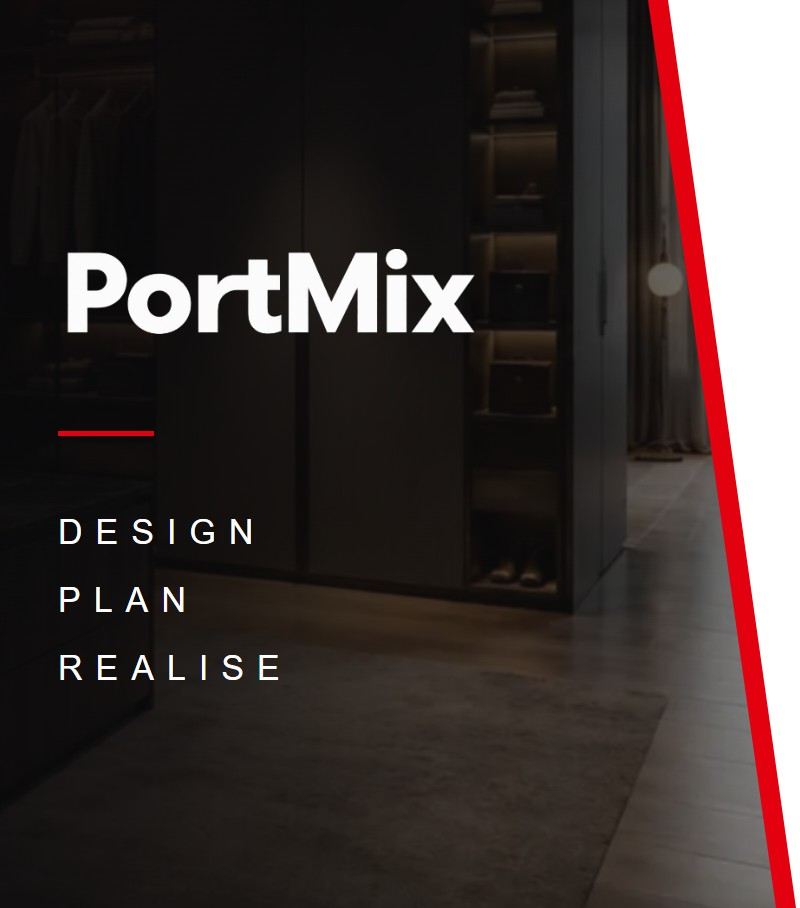
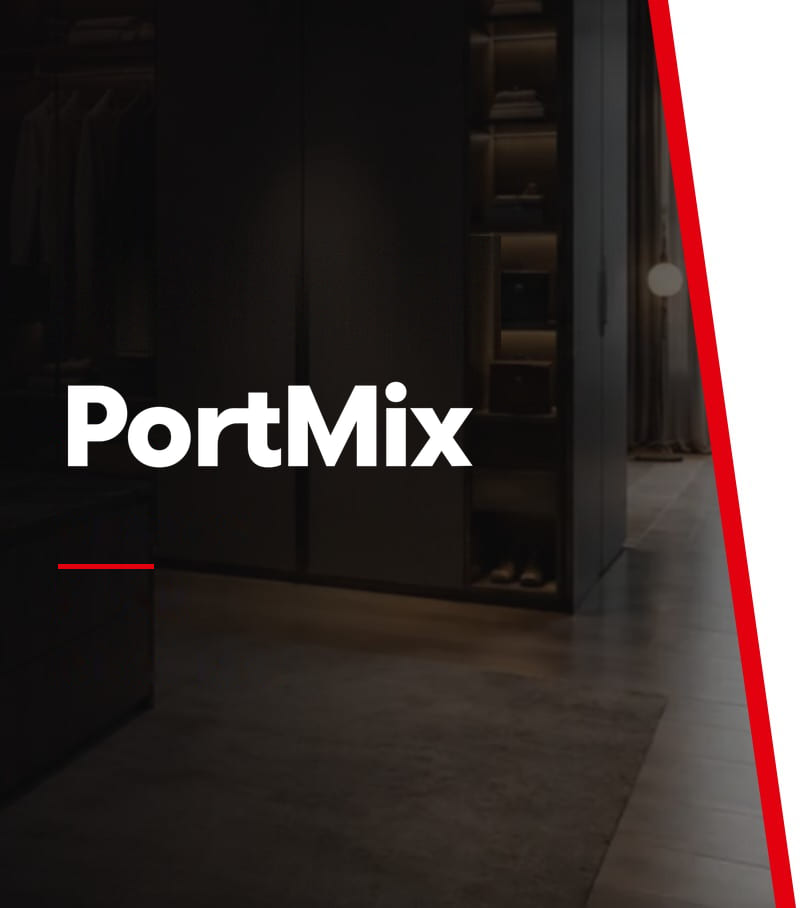
Potpis: tri riječi na panelu se više ne prikazuju podrazumijevano
Adi: klijentu smetaju iako mu je rečeno da ih smije mijenjati. Mogućnost
OSTAJE — polja su samo prazna, a stare riječi stoje kao placeholder, pa se
vidi šta se tu može upisati. „Vrati tvorničku" sada vraća na prazno.

🚨 Raspored se morao skupljati. `ukupno` je uvijek rezervisao `LH * 3` za tri
reda; sa praznim poljima bi ostao prazan pojas ispod crtice, a znak bi bio
gurnut uvis. Sada se broji do ZADNJE popunjene riječi, pa jedna upisana riječ
daje jedan red, a nijedna ne daje nijedan. Provjereno u pregledniku: prazno →
crtica na y 564, jedna riječ → crtica na y 499 i riječ ispod nje.

Podrazumijevani paneli su prepravljeni, jer su riječi bile ZAPEČENE u slikama:

· Studio: složen ponovo kroz sam alat, iz iste fotografije.
· PortMix: originalna fotografija ne postoji (provjereno 306 slika na disku,
  nijedna nije izvor), pa je podloga rekonstruisana iz zatečenog panela —
  logo i crtica uklonjeni prelazom po kolonama (podloga je tamo skoro ravna,
  odstupanje ~5), a slova punjenjem iz susjednih piksela, jer stoje preko
  pravog detalja fotografije (odstupanje 16) gdje bi prelaz ostavio mrlju.
  Ostatak traga ugašen blagim zamućenjem SAMO na mjestu slova, sa mekim
  prelazom — ivice fotografije (linija poda, rub ormara) ostale netaknute.

Geometrija nije pogađana: brojke su iz `nacrtajPanel`, a potvrđene su
mjerenjem Studio panela koji je alat sam složio — crtica x 58..153, y 564..568
na oba panela.

diff --git a/public/signatura/PortMix-Signature-Studio.html b/public/signatura/PortMix-Signature-Studio.html
@@ -268,9 +268,9 @@
             <p class="panel-hint" id="panelHint"></p>
             <input type="file" id="panelFoto" accept="image/*">
             <div class="panel-rijeci">
-              <input id="rijec0" maxlength="14" value="DESIGN" aria-label="1">
-              <input id="rijec1" maxlength="14" value="PLAN" aria-label="2">
-              <input id="rijec2" maxlength="14" value="REALISE" aria-label="3">
+              <input id="rijec0" maxlength="14" placeholder="DESIGN" aria-label="1">
+              <input id="rijec1" maxlength="14" placeholder="PLAN" aria-label="2">
+              <input id="rijec2" maxlength="14" placeholder="REALISE" aria-label="3">
             </div>
             <canvas id="panelCanvas" width="800" height="908"></canvas>
             <div class="panel-akcije">
@@ -995,7 +995,16 @@ function nacrtajPanel(ctx) {
     ? LOGO_W * (panelLogo.naturalHeight / panelLogo.naturalWidth)
     : 0;
 
-  const ukupno = logoH + CRTA_MT + CRTA_H + RIJEC_MT + LH * 3;
+  /* 🚨 Visina se računa prema onome što se ZAISTA crta. Dok su tri riječi
+     bile obavezne, `LH * 3` je uvijek ulazilo u račun; sada su podrazumijevano
+     prazne, pa bi fiksna rezervacija ostavila prazan pojas ispod crtice i
+     gurnula znak uvis. Broji se do ZADNJE popunjene riječi, da prazno polje
+     između dvije ispisane ne poremeti razmak. */
+  const rijeci = panelRijeci();
+  const redova = rijeci.reduce((n, r, i) => (r ? i + 1 : n), 0);
+  const visinaRijeci = redova ? RIJEC_MT + LH * redova : 0;
+
+  const ukupno = logoH + CRTA_MT + CRTA_H + visinaRijeci;
   let y = (H - ukupno) / 2;
 
   if (panelLogo && panelLogo.naturalWidth) ctx.drawImage(panelLogo, X, y, LOGO_W, logoH);
@@ -1016,7 +1025,7 @@ function nacrtajPanel(ctx) {
   const desc = m.fontBoundingBoxDescent || 34 * 0.212;
   const osnovna = (LH - (asc + desc)) / 2 + asc;
 
-  panelRijeci().forEach((rijec, i) => {
+  rijeci.forEach((rijec, i) => {
     if (rijec) panelTekstRazmaknut(ctx, rijec, X, y + LH * i + osnovna, 13);
   });
 }
@@ -1103,7 +1112,10 @@ function vratiTvornickiPanel() {
   try { localStorage.removeItem(panelKljuc(brand)); } catch { /* privatni prozor */ }
   const f = $('panelFoto');
   if (f) f.value = '';
-  [0, 1, 2].forEach((i) => { const el = $('rijec' + i); if (el) el.value = PANEL_ORIG_RIJECI[i]; });
+  /* ⚠ Tvorničko stanje je BEZ riječi (29.9.2026., Adijev zahtjev: klijentu
+     smetaju iako ih smije mijenjati). Stare riječi stoje kao placeholder,
+     pa se vidi šta se tu može upisati. */
+  [0, 1, 2].forEach((i) => { const el = $('rijec' + i); if (el) el.value = ''; });
   panelStatus('', false);
   osvjeziPanelPregled();
   render();
